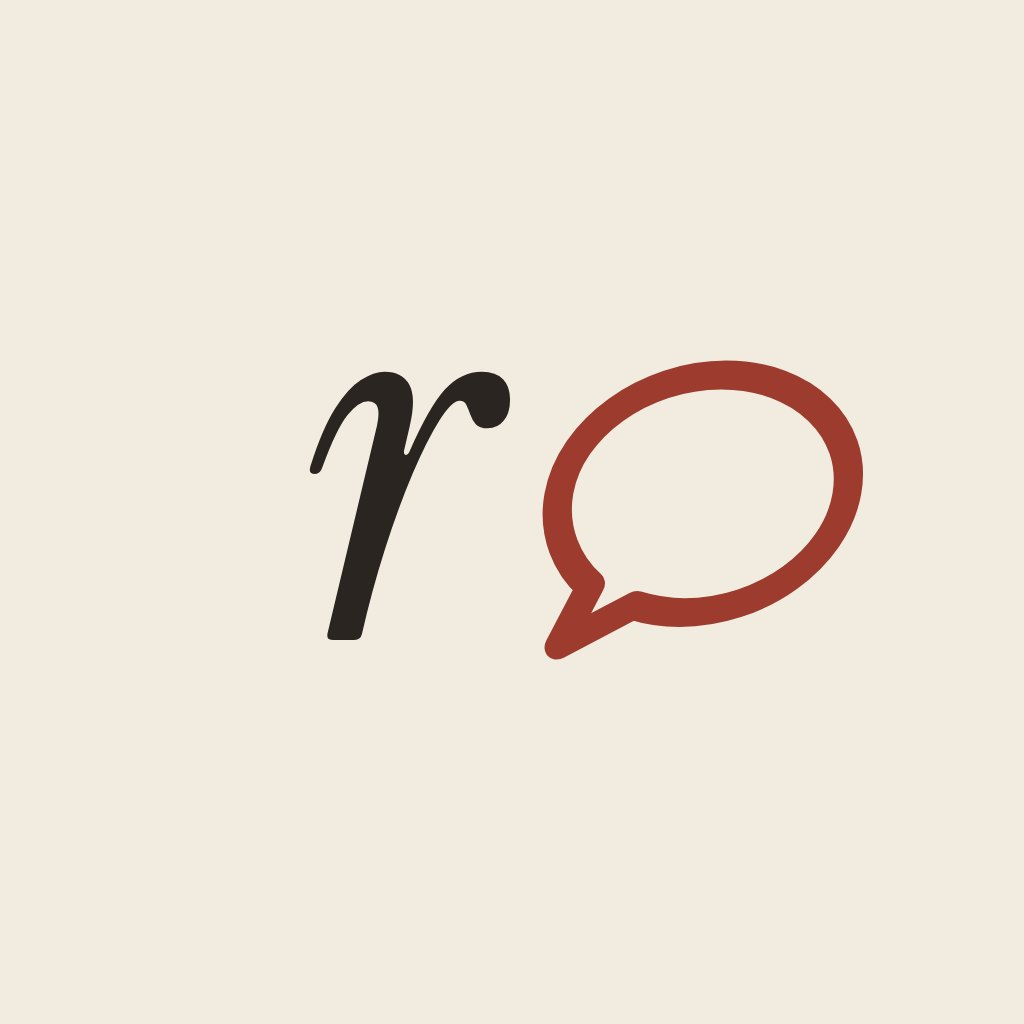
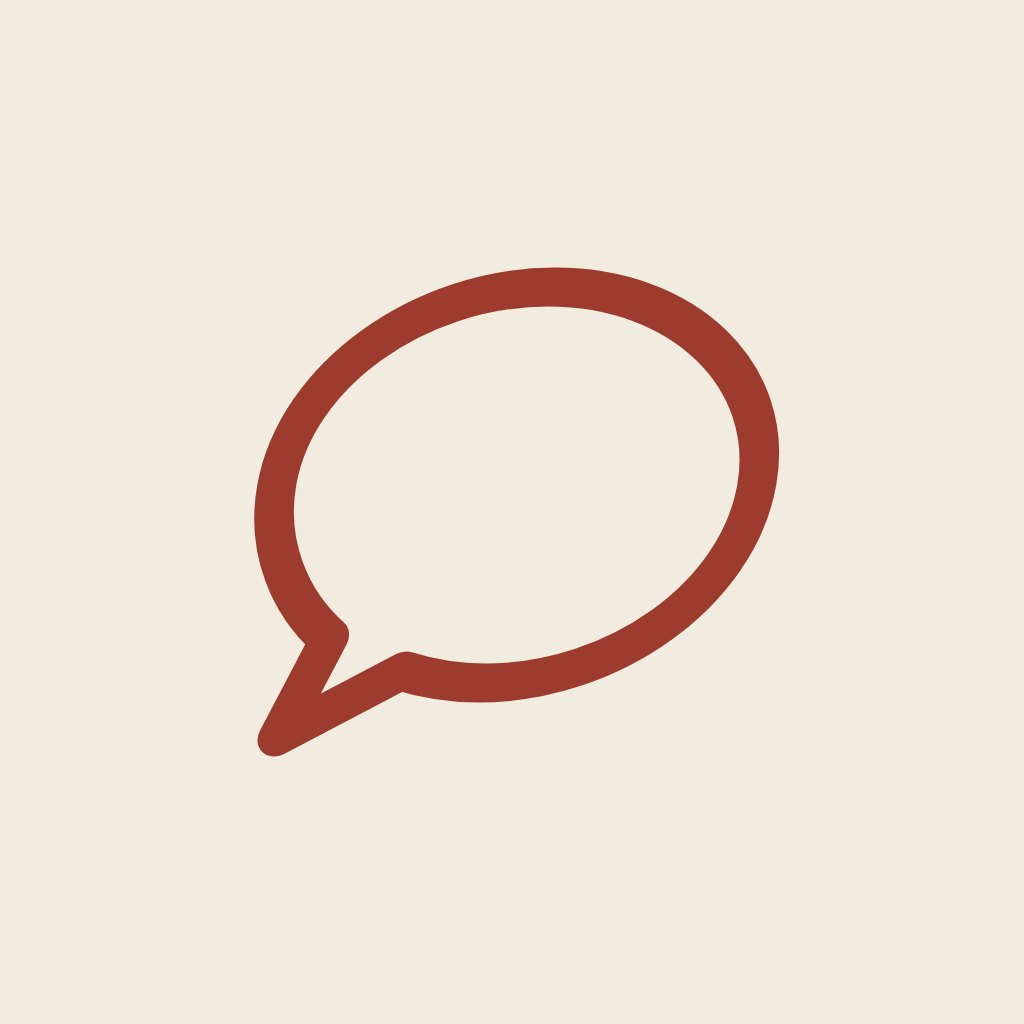
Contact photo: the bubble alone everywhere a person sees Reason's picture
The vCard PHOTO (assets/reason-contact.jpg/.svg + scripts/draw-contact.mjs, byte-identical to 790173d
on name-card), CARD_REVISED + the BRAND/RMARK pins as in 790173d, the page apple-touch icon (180x180
from reason-contact.svg) and the link-preview avatar (was a black circle with R) now show the pen
bubble on paper with no letter: people save Reason under a name they pick.

Changed region(s): [[0.25, 0.25, 0.8438, 0.75]]

diff --git a/test/contact-card-brand.test.js b/test/contact-card-brand.test.js
@@ -25,12 +25,13 @@ const { vcard } = await import("../src/contact.js");
 const S = await import("../scripts/card-to-owner.js");
 
 const PHOTO = new URL("../assets/reason-contact.jpg", import.meta.url);
-// sha256 of assets/reason-contact.jpg. BRAND = the Web handoff's contact mark (owner, 2026-10-27):
-// Instrument Serif italic "r" + the pen #9c3b2e speech-bubble outline on paper #f2ebe0, rendered
-// from the handoff's reason-contact.svg in headless Chromium with assets/fonts. If the photo is
-// redrawn on purpose, update BRAND; BLUE, ORANGE (10-25), RED1 (first brick red) and RED2 (the
-// filled-ring #9c3b2e photo of 10-26 ~23:45) must never come back.
[1 lines of base64/hex data omitted]
+// sha256 of assets/reason-contact.jpg. BRAND = the pen #9c3b2e speech-bubble outline alone on paper
+// #f2ebe0 (owner, 2026-11-06: the italic "r" removed), rendered from assets/reason-contact.svg in
+// headless Chromium by scripts/draw-contact.mjs. If the photo is redrawn on purpose, update BRAND;
+// BLUE, ORANGE (10-25), RED1 (first brick red), RED2 (the filled-ring #9c3b2e photo of 10-26
+// ~23:45) and RMARK (the italic "r" + bubble of 10-27) must never come back.
[5 lines of base64/hex data omitted]
@@ -58,6 +59,7 @@ test("the card's photo is the handoff mark, never an older photo", () => {
   assert.notEqual(sha, ORANGE, "the orange-bubble photo is back");
   assert.notEqual(sha, RED1, "the first brick-red photo is back");
   assert.notEqual(sha, RED2, "the filled-ring photo is back");
+  assert.notEqual(sha, RMARK, "the italic r photo is back");
   assert.equal(sha, BRAND);
   assert.equal(bytes[0], 0xff); assert.equal(bytes[1], 0xd8, "still a JPEG (iOS saves JPEG card photos reliably)");
   assert.ok(vcard({ number: "+16562167455" }).replace(/\r\n /g, "").includes(bytes.toString("base64")), "the vCard carries this photo");

diff --git a/src/pages/preview.js b/src/pages/preview.js
@@ -27,6 +27,11 @@ const FFMPEG = existsSync(join(homedir(), ".local/bin/ffmpeg"))
   ? join(homedir(), ".local/bin/ffmpeg") : "ffmpeg";
 
 const W = 1200, H = 630, FPS = 30;
+
+// Reason's avatar in the mock Messages header is its contact photo (assets/reason-contact.svg, the
+// bubble alone on paper since 11-06): no letter, because people save Reason under a name they pick.
+const CONTACT_SVG = readFileSync(new URL("../../assets/reason-contact.svg", import.meta.url), "utf8")
+  .replace(/ width="1024" height="1024"/, ' width="44" height="44"');
 const CHAR_MS = 38;
 const HOLD_MS = 2400;
 const FADE_MS = 400;
@@ -56,7 +61,7 @@ html,body{width:${W}px;height:${H}px;background:${ground};overflow:hidden}
 .frame{width:${W}px;height:${H}px;display:flex;align-items:center;justify-content:center}
 .pane{width:540px;background:#fff;border-radius:24px;padding:28px 32px 32px;box-shadow:0 2px 24px rgba(0,0,0,.08)}
 .top{display:flex;align-items:center;gap:12px;margin-bottom:20px}
-.avatar{width:44px;height:44px;border-radius:50%;background:${ink};color:${ground};display:flex;align-items:center;justify-content:center;font:600 20px/1 ui-sans-serif,system-ui,sans-serif}
+.avatar{width:44px;height:44px;border-radius:50%;overflow:hidden;flex:none}.avatar svg{display:block}
 .who{font:600 17px/1.2 ui-sans-serif,system-ui,sans-serif;color:${ink}}
 .sub{font:400 13px/1.2 ui-sans-serif,system-ui,sans-serif;color:${muted}}
 .thread{min-height:90px}
@@ -68,7 +73,7 @@ html,body{width:${W}px;height:${H}px;background:${ground};overflow:hidden}
 .badge{display:inline-block;font:500 11px/1 ui-sans-serif,system-ui,sans-serif;color:${muted};background:${ground};border-radius:6px;padding:3px 8px;margin-bottom:12px}
 </style></head><body>
 <div class="frame"><div class="pane">
-<div class="top"><div class="avatar">R</div><div><div class="who">Reason</div><div class="sub">iMessage</div></div></div>
+<div class="top"><div class="avatar">${CONTACT_SVG}</div><div><div class="who">Reason</div><div class="sub">iMessage</div></div></div>
 <div class="badge" id="badge"></div>
 <div class="thread">
 <div class="msg them" id="title" style="visibility:hidden"></div>

diff --git a/src/contact.js b/src/contact.js
@@ -40,7 +40,7 @@ export function isContactPath(pathname) {
 }
 
 /** The card's REV: line. Bump it whenever the photo or the card's fields change. */
-export const CARD_REVISED = "2026-10-27T04:30:00Z";
+export const CARD_REVISED = "2026-11-06T12:00:00Z";
 
 /** How long after a failed try before the card is tried again. */
 export const RETRY_AFTER_MS = 6 * 60 * 60 * 1000;

diff --git a/.agents/skills/verify-reason/features/README.md b/.agents/skills/verify-reason/features/README.md
@@ -19,7 +19,7 @@ not the baseline. **The live instance is Hetzner** (`bin/doctor.sh live`), never
 | AgentCard (a card in a vault, buying things with it; the purchase record, `purchases_recent`, cancel reasons, tokens sealed at rest) | [agentcard.md](agentcard.md) | `node --test test/agentcard.test.js test/purchasesnote.test.js`; cage proves `not_configured` and `purchases_recent`; Hetzner read-only, never an AgentCard call |
 | Flight booking (DARK behind `REASON_FLIGHT_BOOKING`; `owner` = the owner's conversation only: fresh quote, traveler read-back, the cart's own numbers, a yes pinned to cart + travelers, never "booked" without a ticket) | [flight-booking.md](flight-booking.md) | `node --test test/flight-booking.test.js`; by hand only: `scripts/flight-booking-smoke.mjs` (sandbox) |
 | Shopping around it (verified offers, the figures check on replies, the handoff, price watches) | [shopping.md](shopping.md) | `node --test test/shopping-*.test.js test/deal-watch.test.js`; cage: `offer_check` → `shop_handoff` → `deal_watch_set` after `offers.beginTurn` |
-| Contact card photo (italic "r" + #9c3b2e bubble outline from the Web handoff since 10-27, `assets/reason-contact.jpg`) + one-off owner-only resend `scripts/card-to-owner.js --confirm=card-mark-1027` (marker file in data dir; nobody else) | [line-change.md](line-change.md) | `node --test test/contact-card-brand.test.js`; `node --test test/contact-card-url.test.js`; cage: `bin/contact-card.mjs` (sent URL = `/reason-<sha8>.vcf` of the served card, PHOTO = the pinned BRAND photo, NOTE "Your personal concierge", REV:, no long cache); live: `bin/contact-card.mjs --live <base>` |
+| Contact card photo (the #9c3b2e bubble outline alone on paper since 11-06 — the 10-27 italic "r" removed; `assets/reason-contact.jpg`, also the page apple-touch icon and the link-preview avatar) + one-off owner-only resend `scripts/card-to-owner.js --confirm=card-mark-1027` (marker file in data dir; nobody else) | [line-change.md](line-change.md) | `node --test test/contact-card-brand.test.js`; `node --test test/contact-card-url.test.js`; cage: `bin/contact-card.mjs` (sent URL = `/reason-<sha8>.vcf` of the served card, PHOTO = the pinned BRAND photo, NOTE "Your personal concierge", REV:, no long cache); live: `bin/contact-card.mjs --live <base>` |
 | The new number (contact card, once, for people who texted the old 808 line) | [line-change.md](line-change.md) | `node --test test/linechange.test.js`; cage: seeded pre-cutoff inbound + `bin/inbound.sh -` as that number |
 | Meal nutrition estimation (snap your plate) | [meal-nutrition.md](meal-nutrition.md) | No `test/meal.test.js` yet; caged inbound + `bin/peek.sh sql` |
 | Subscriptions (find recurring charges, cancel on a yes, renewal watch) | [subscriptions.md](subscriptions.md) | `node --test test/subscriptions.test.js` (52); flow test needs a model |

diff --git a/.agents/skills/verify-reason/features/pages.md b/.agents/skills/verify-reason/features/pages.md
@@ -61,7 +61,7 @@ Tests: `test/pages.test.js`, `test/pagekit.test.js`, `test/pages-theme.test.js`,
   option, focus rings, /ops highlight) = the brand red; unstyled links take `--mark`; the
   remote sign-in field outline too. Only blue kept: the iMessage demo bubbles in
   `src/pages/preview.js`. Favicon = the site's bubble in brand red (`assets/favicon.svg`, fill #9c3b2e), apple-touch icon =
-  "r" + the red bubble (`assets/apple-touch-icon.png`); every icon link carries `?v=ICON_VERSION`
+  the contact photo, the red bubble alone (`assets/apple-touch-icon.png`, 180×180 from `assets/reason-contact.svg`; no "r" since 11-06); every icon link carries `?v=ICON_VERSION`
   (first 10 hex of a sha256 of both files, `src/pages/render.js`; `/favicon.svg?v=…` is served by
   `assetRequest`, which ignores the query), also on Spotify, remote sign-in and
   brandedPage. Pinned in `test/pages-no-blue.test.js` (source + rendered-page scan).
